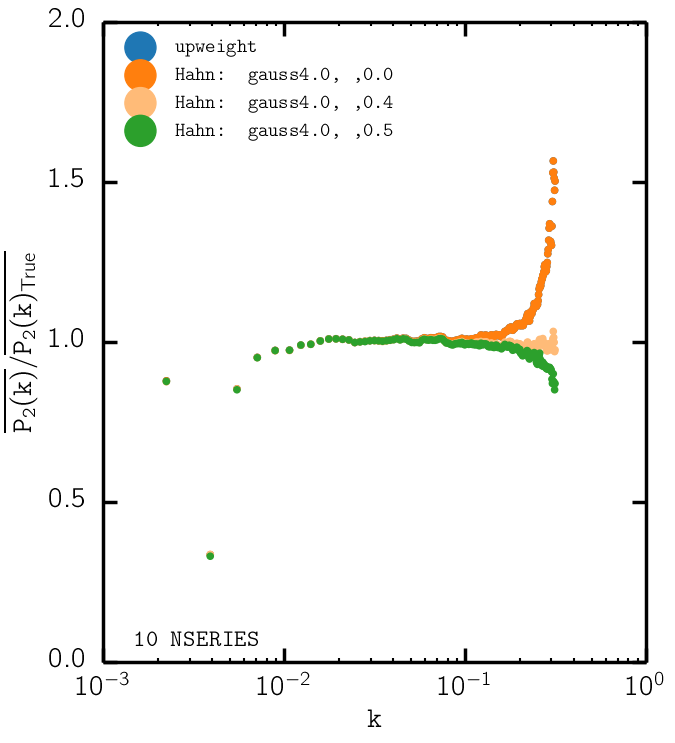
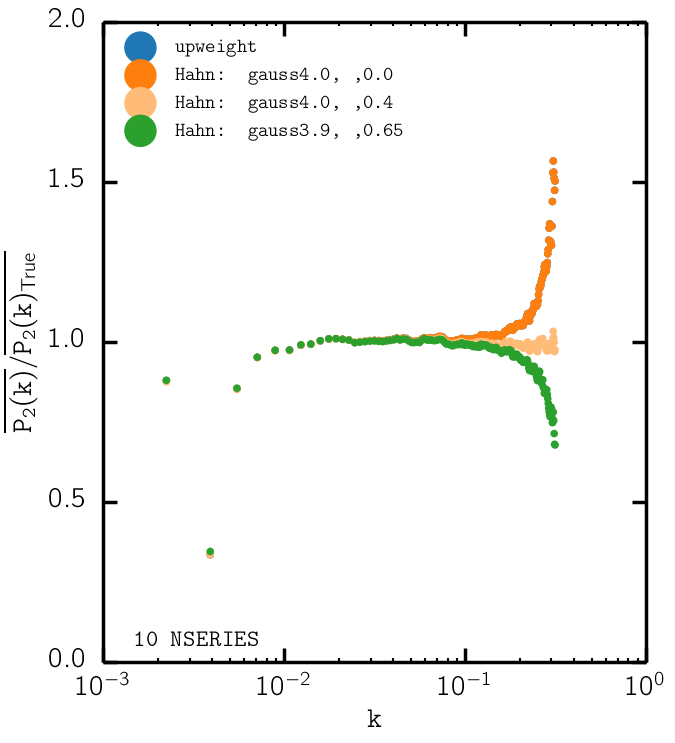
Nseries implemtation continuing

Changed region(s): [[0.7156, 0.4334, 0.84, 0.6191], [0.4356, 0.1548, 0.4978, 0.1857], [0.56, 0.1548, 0.5911, 0.1857]]

diff --git a/fibcol_data.py b/fibcol_data.py
@@ -263,6 +263,10 @@ class galaxy_data:
                         #elif correction['name'].lower() in ('noweight'): 
                         #    # n oweight 
                         #    build_noweight(**cat_corr) 
+                    elif 'scratch' in correction['name'].lower():           # scratch pad for different methods 
+
+                        build_nseries_scratch(**cat_corr) 
+
                     else: 
                         raise NotImplementedError() 
 
@@ -276,8 +280,8 @@ class galaxy_data:
             elif DorR == 'random':              # Random ------------------------------------
 
                 catalog_columns = ['ra', 'dec', 'z', 'comp']    # catalog columns 
-
-                if (os.path.isfile(file_name) == False) or (clobber == True):
+                
+                if not os.path.isfile(file_name) or clobber:
                     print 'Constructing ', file_name 
                     build_random(**cat_corr) 
 
@@ -579,6 +583,7 @@ def get_galaxy_data_file(DorR, cosmology='fidcosmo', **cat_corr):
             file_name = ''.join([data_dir, 'a0.6452_rand50x.dr12d_cmass_ngc.vetoed.dat'])             # hardcoded to 50x so it does'nt take forever
 
     elif catalog['name'].lower() == 'patchy':               # PATHCY mocks -------------
+
         data_dir = '/mount/riachuelo1/hahn/data/PATCHY/dr12/v6c/'   # data directory
 
         if DorR == 'data': 
@@ -638,6 +643,7 @@ def get_galaxy_data_file(DorR, cosmology='fidcosmo', **cat_corr):
             file_name = ''.join([data_dir, 'Random-DR12CMASS-N-V6C-x50.vetoed.dat'])
     
     elif catalog['name'].lower() == 'nseries':              # N-series ------------------
+
         data_dir = '/mount/riachuelo1/hahn/data/Nseries/'
         
         if DorR == 'data':  # mock catalogs 
@@ -679,12 +685,16 @@ def get_galaxy_data_file(DorR, cosmology='fidcosmo', **cat_corr):
                 file_name = ''.join([data_dir, 
                     'CutskyN', str(catalog['n_mock']), '.fibcoll', corr_str, cosmo_str, '.dat' ]) 
 
+            elif 'scratch' in correction['name'].lower():
+                
+                file_name = ''.join([data_dir, 
+                    'CutskyN', str(catalog['n_mock']), '.fibcoll.', correction['name'].lower(), cosmo_str, '.dat' ]) 
+
             else: 
                 raise NameError('not yet coded') 
 
         elif DorR == 'random': 
             # random catalog 
-
             file_name = ''.join([data_dir, 'Nseries_cutsky_randoms_50x_redshifts_comp.dat']) 
 
     return file_name 
@@ -1719,6 +1729,49 @@ def build_peakcorrected_fibcol(doublecheck=False, **cat_corr):
 
     if doublecheck == True: 
         np.savetxt(peakcorr_file+'.dlosvalues', np.c_[dlos_values], fmt=['%10.5f'], delimiter='\t') 
+
+"""
+def build_nseries_scratch(**cat_corr): 
+    ''' Quick function to test fiber collision correction methods on Nseries mocks
+        
+
+    Parameters
+    ----------
+    cat_corr : catalog and correction dictionary
+
+    Notes
+    -----
+    * scratch_peak_ang : Instead of using the
+
+    '''
+    catalog = cat_corr['catalog']
+    correction = cat_corr['correction']
+
+    if correction['name'].lower() in ('scratch_peakknown'): 
+
+        # read rdzw file 
+        data_dir = '/mount/riachuelo1/hahn/data/Nseries/'
+        orig_file = ''.join([data_dir, 'CutskyN', str(catalog['n_mock']), '.rdzwc']) 
+        orig_ra, orig_dec, orig_z, orig_wfc, z_upw = np.loadtxt(orig_file, unpack=True, usecols=[0,1,2,4,5])
+    
+        # file with completeness
+        mask_file = ''.join([data_dir, 'CutskyN', str(catalog['n_mock']), '.mask_info']) 
+        orig_wcomp = np.loadtxt(mask_file, unpack=True, usecols=[0]) 
+
+        now_index = range(len(orig_ra))[orig_wfc == 0.]
+        upw_index = range(len(orig_ra))[orig_wfc > 1.]
+
+        match_now, match_upw, d = pysph.spherematch(
+                orig_ra[now_index], orig_dec[now_index], 
+                orig_ra[upw_index], orig_dec[upw_index], 
+                nnearest=1)
+    elif correction['name'].lower() in ('scratch_peak_ang'):
+
+    file = get_galaxy_data_file('data', **cat_corr) 
+    np.savetxt(true_file, 
+            np.c_[orig_ra, orig_dec, orig_z, true_wfc, orig_wcomp], 
+            fmt=['%10.5f', '%10.5f', '%10.5f', '%10.5f', '%10.5f'], delimiter='\t') 
+"""
 
 def build_corrected_randoms(sanitycheck=False, **cat_corr): 
     ''' 

diff --git a/plot_fibcol.py b/plot_fibcol.py
@@ -1098,21 +1098,18 @@ if __name__=="__main__":
     #plot_avg_pk_fibcol('qpm', 100, {'name': 'true'}, quad=False)   
     #plot_comdis2z_test()
     
-
-    nseries_corr_methods = [{'name': 'true'}, {'name':'upweight'}, 
-            {'name': 'peakshot', 'sigma': 4.0, 'fpeak': 0.0, 'fit': 'gauss'}, 
-            {'name': 'peakshot', 'sigma': 4.0, 'fpeak': 0.4, 'fit': 'gauss'}, 
-            {'name': 'peakshot', 'sigma': 4.0, 'fpeak': 0.5, 'fit': 'gauss'}, 
+    nseries_corr_methods = [{'name': 'true'}, {'name':'upweight'}, {'name': 'hectorsn'},
+            {'name': 'peakshot', 'sigma': 4.0, 'fpeak': 0.7, 'fit': 'gauss'}, 
             ]
-    plot_pk_fibcol_comp('nseries', 10, nseries_corr_methods, 
-            quad=True, Ngrid=360, type='regular', 
+    plot_pk_fibcol_comp('nseries', 25, nseries_corr_methods, 
+            quad=False, Ngrid=360, type='regular', 
             xrange=[0.001, 1.0], yrange=[10**3, 3*10**5]) 
-    plot_pk_fibcol_comp('nseries', 10, nseries_corr_methods, 
-            quad=True, Ngrid=360, type='ratio', 
-            xrange=[0.001, 1.0], yrange=[0.0, 2.0]) 
-    plot_pk_fibcol_comp('nseries', 10, nseries_corr_methods, 
-            quad=True, Ngrid=360, type='residual', 
-            xrange=[0.001, 1.0], yrange=[0.0, 2.0]) 
+    plot_pk_fibcol_comp('nseries', 25, nseries_corr_methods, 
+            quad=False, Ngrid=360, type='ratio', 
+            xrange=[0.001, 1.0], yrange=[0.9, 1.2]) 
+    plot_pk_fibcol_comp('nseries', 25, nseries_corr_methods, 
+            quad=False, Ngrid=360, type='residual', yscale='log', 
+            xrange=[0.001, 1.0], yrange=[0.02, 2.0]) 
     #plot_pk_fibcol_comp('qpm', 10, qpm_corr_methods, quad=True, Ngrid=960, type='ratio', xrange=[0.001, 1.0]) 
     #plot_pk_fibcol_comp('qpm', 10, qpm_corr_methods, quad=True, Ngrid=960, type='residual', yscale='log', xrange=[0.02, 1.0]) 
     ##plot_pk_fibcol_comp('qpm', 100, qpm_corr_methods, quad=True, type='residual', yscale='log', xrange=[0.02, 1.0]) 

diff --git a/fibercollisions.py b/fibercollisions.py
@@ -876,16 +876,16 @@ def build_pk(catalog, n_mocks):
 
     '''
     # correction method list 
-    #corrections = [ {'name': 'true'}, {'name': 'upweight'}, {'name': 'peakshot', 'sigma': 4.0, 'fpeak': 0.6, 'fit': 'gauss'}]
-    corrections = [{'name': 'peakshot', 'sigma': 3.9, 'fpeak': 0.65, 'fit': 'gauss'}]
-    spec = {'P0': 20000, 'sscale':3600.0, 'Rbox':1800.0, 'box':3600, 'grid': 360, 'quad': True}
+    #corrections = [ {'name': 'true'}, {'name': 'upweight'}, {'name': 'hectorsn'}, 
+    corrections = [{'name': 'peakshot', 'sigma': 4.0, 'fpeak': 0.7, 'fit': 'gauss'}]
+    spec = {'P0': 20000, 'sscale':3600.0, 'Rbox':1800.0, 'box':3600, 'grid': 360, 'quad': False}
 
-    for i_mock in range(1, n_mocks+1): 
+    for i_mock in range(11, n_mocks+1): 
         for corr in corrections: 
             build_fibcol_pk(catalog, i_mock, corr, spec=spec, clobber=False) 
 
 if __name__=='__main__': 
-    build_pk('nseries', 10)
+    build_pk('nseries', 50)
     #for corr in ['true', 'upweight', 'noweight']: 
     #    cat_corr = {'catalog': {'name':'lasdamasgeo', 'n_mock':1, 'letter':'a'}, 
     #            'correction': {'name': corr}} 
